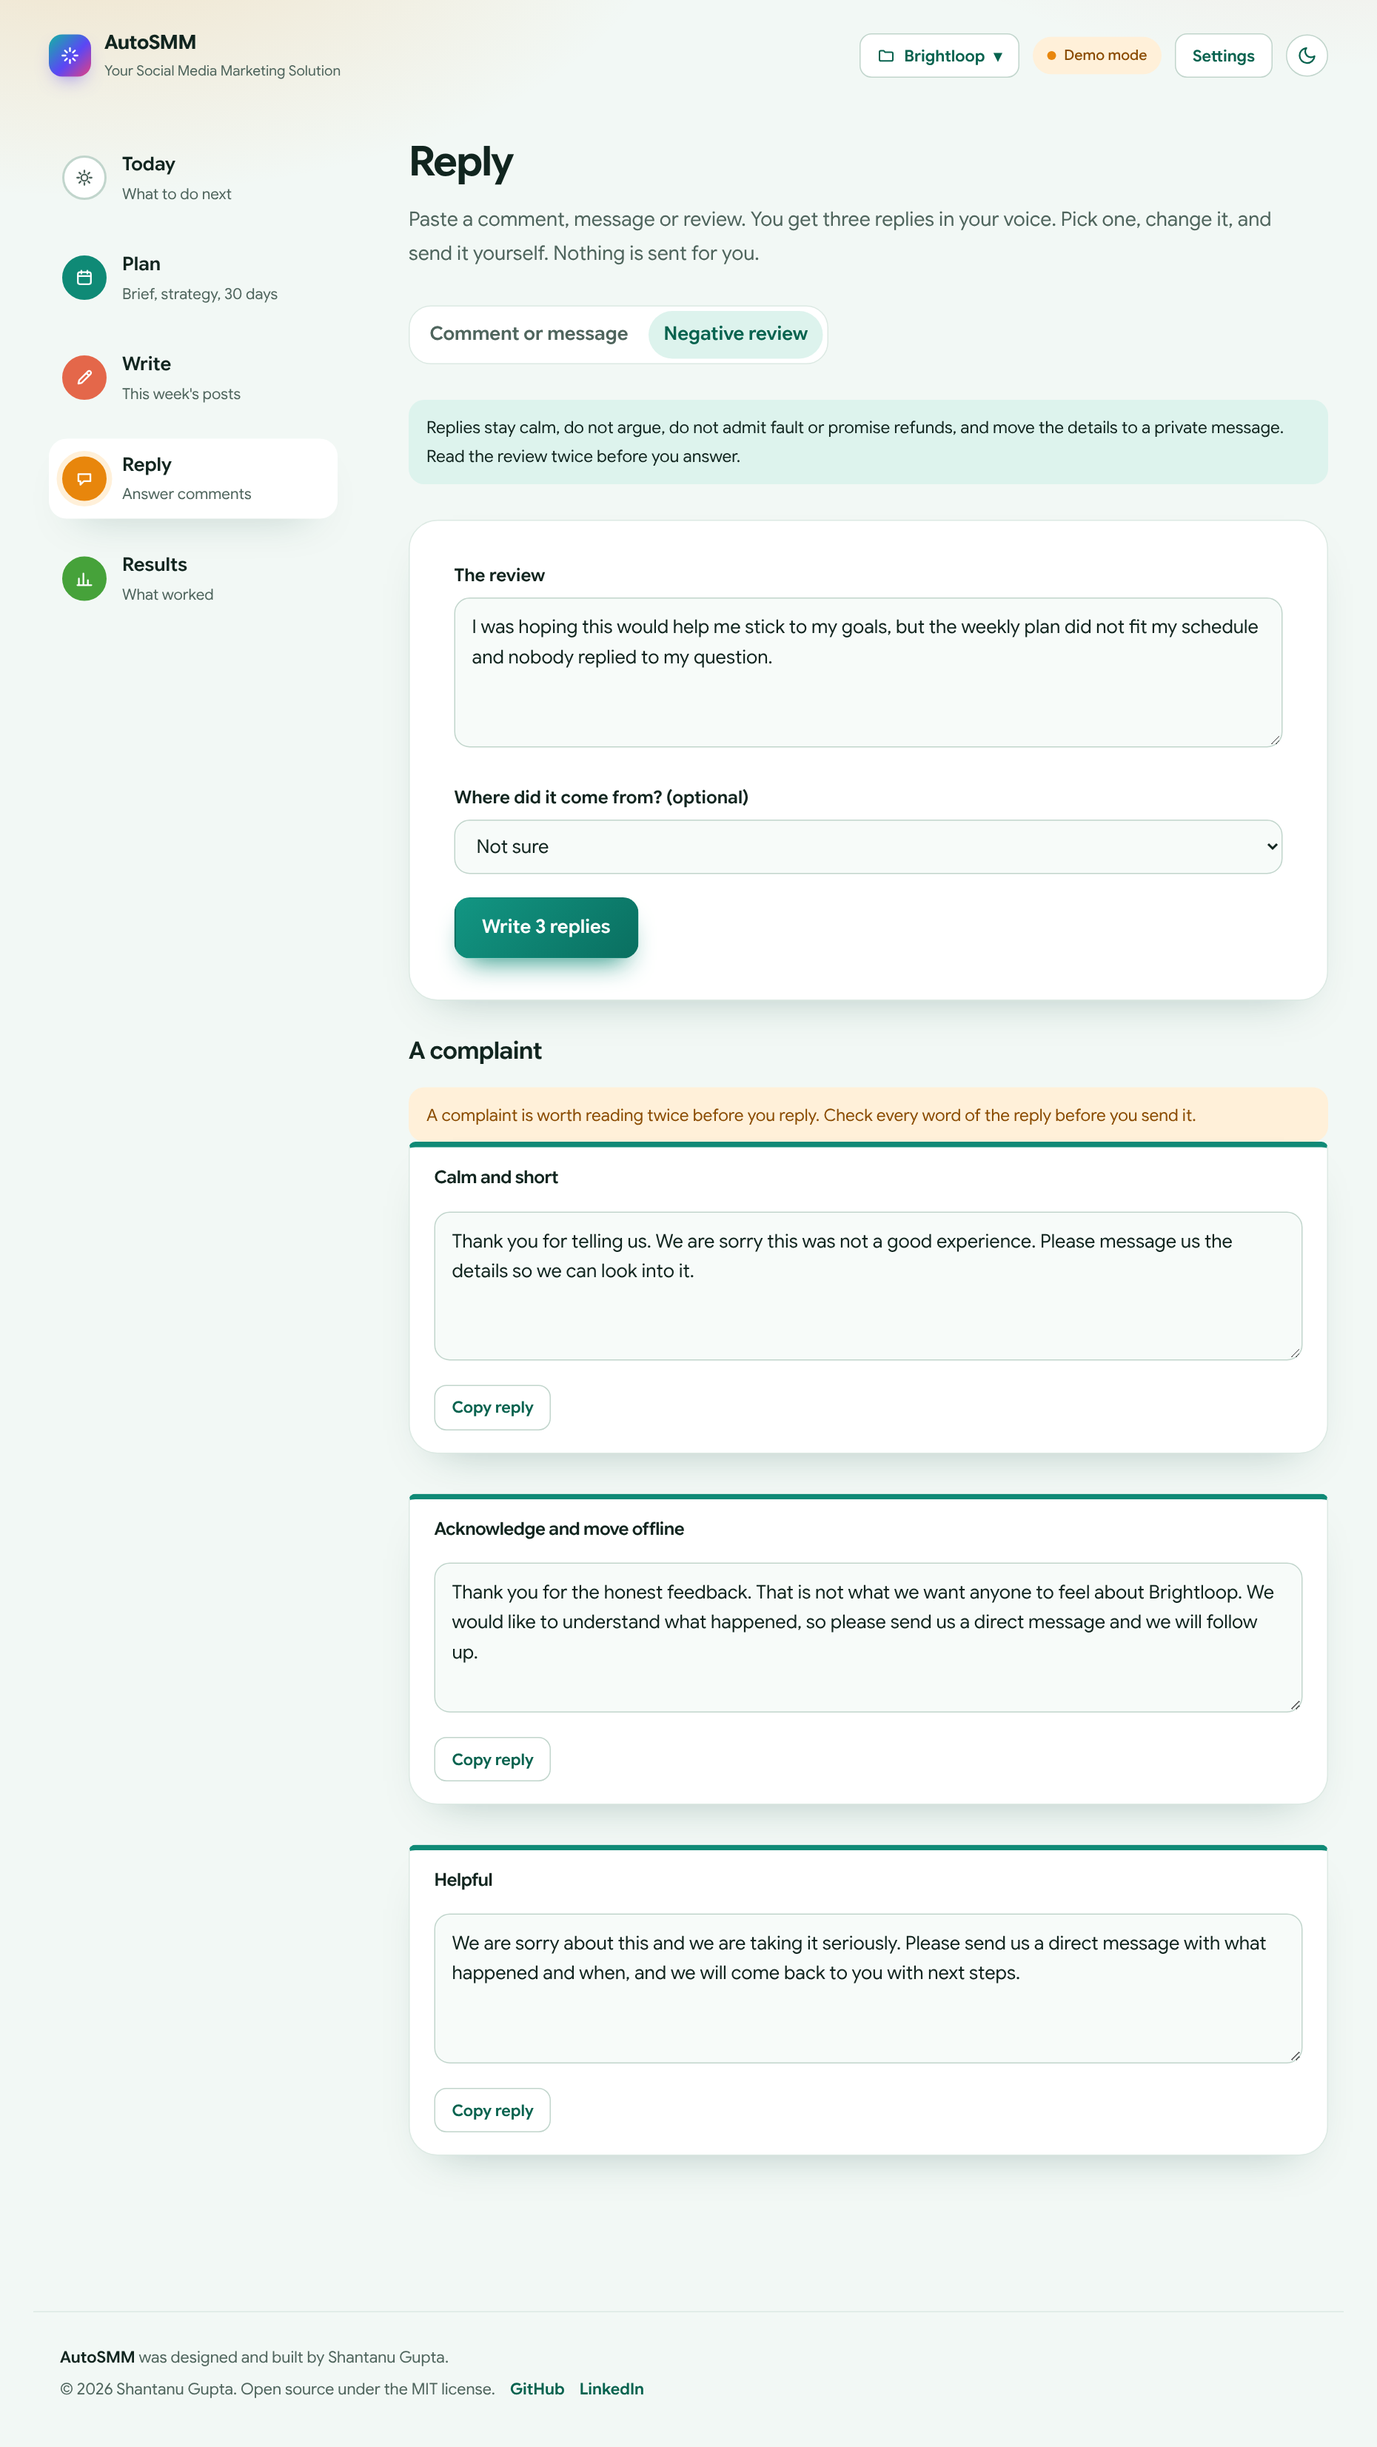
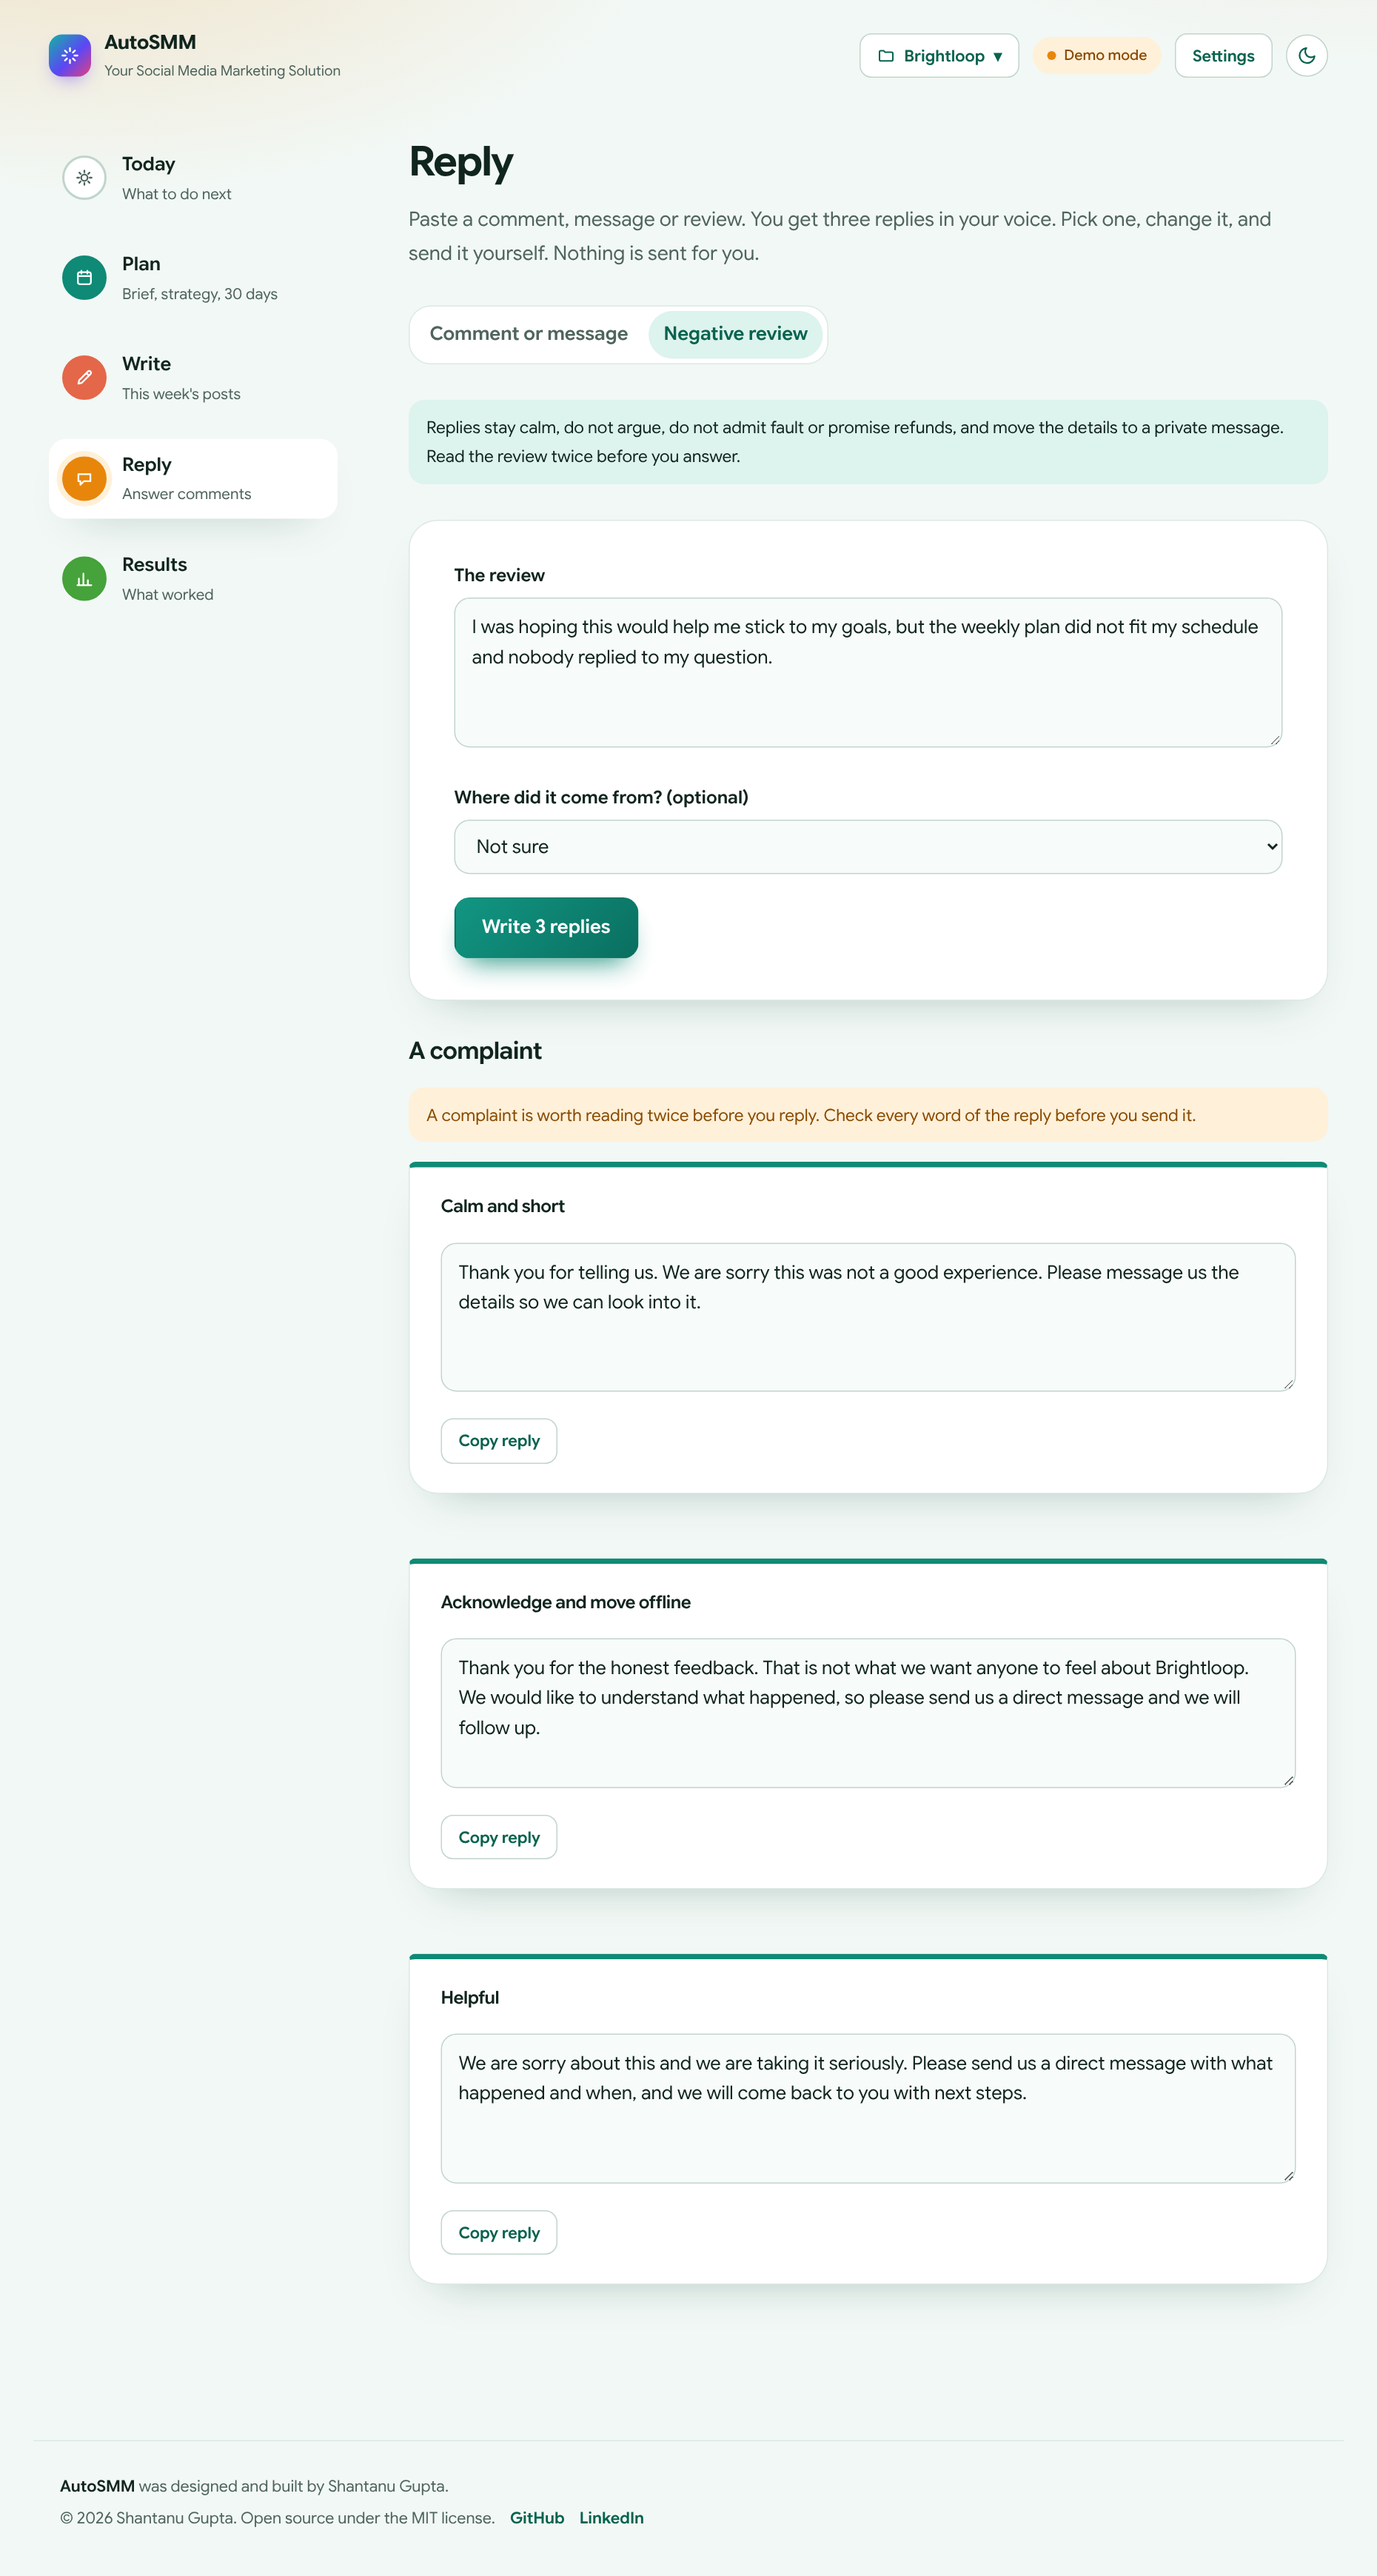
More space around reply cards
Claude-Session: https://claude.ai/code/session_012ZVsx3EecAUNwYgoWjEyrw

diff --git a/app/globals.css b/app/globals.css
@@ -1420,10 +1420,14 @@ input[type="radio"] {
 }
 .sheet.reply-card {
   display: block;
-  padding: 18px 22px 20px;
+  padding: 26px 28px 26px;
 }
 .sheet.reply-card > * + * {
-  margin-top: 12px;
+  margin-top: 14px;
+}
+.drafts-list:has(.reply-card) {
+  display: grid;
+  gap: 22px;
 }
 .reply-card textarea {
   width: 100%;
@@ -1602,3 +1606,4 @@ input[type="radio"] {
 @media (max-width: 760px) {
   .project-panel { position: fixed; left: 16px; right: 16px; top: 64px; width: auto; }
 }
+.notice + .drafts-list { margin-top: 18px; }
